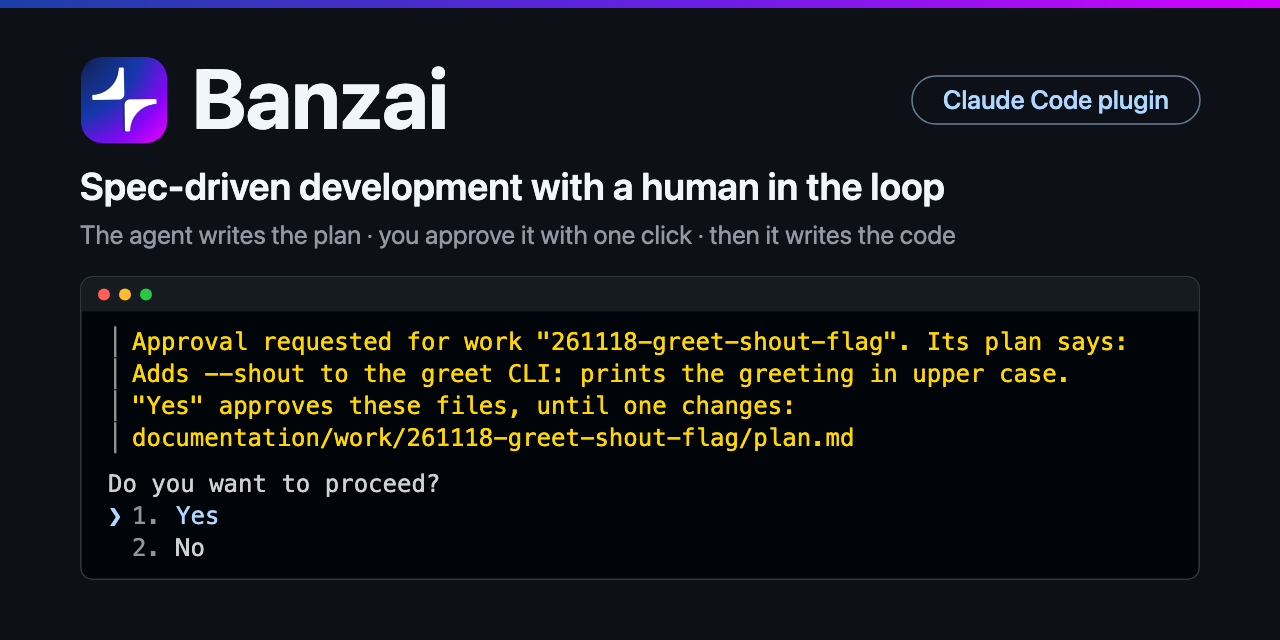
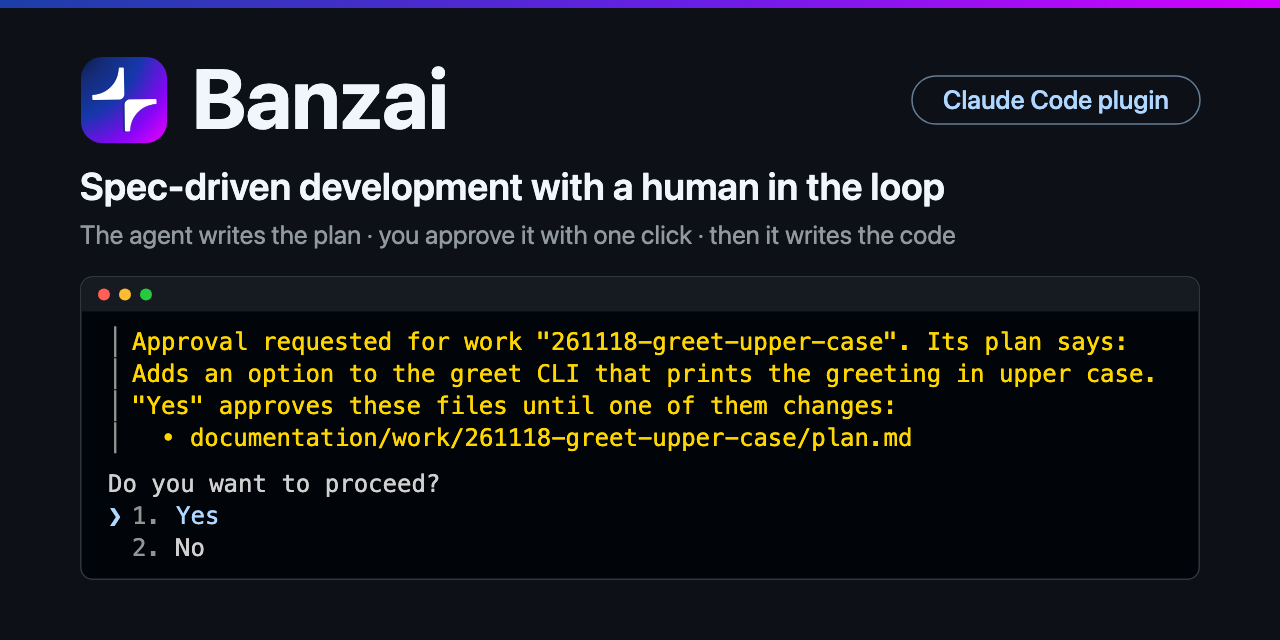
List approved files one per line in dialogs, document user-scope install

Changed region(s): [[0.0938, 0.5, 0.8125, 0.7188], [0.8438, 0.5625, 0.9062, 0.5938]]

diff --git a/README.md b/README.md
@@ -48,15 +48,28 @@ been checked.
 
 ## Install
 
-Add the marketplace, then install the plugin for your project:
+Add the marketplace:
 
 ```bash
 claude plugin marketplace add Parabolic-Technologies/banzai-claude-plugin
 ```
 
+Then install the plugin either for one project, from that project's
+directory:
+
 ```bash
 claude plugin install banzai@parabolic-plugins --scope project
 ```
+
+or for all your projects:
+
+```bash
+claude plugin install banzai@parabolic-plugins --scope user
+```
+
+With a user install the commands are available in every project, but the
+hook acts only in a project that has `documentation/work/`, which `setup`
+creates; everywhere else it stays silent.
 
 Then start Claude Code in the project and type:
 
@@ -75,7 +88,7 @@ Then start Claude Code in the project and type:
 Now give it a first piece of work in your own words, for example:
 
 ```text
-/banzai:feature add a --shout flag to the greet CLI
+/banzai:feature let the greet CLI print the greeting in upper case
 ```
 
 The model writes a plan and shows the approval dialog. After your "Yes" it
@@ -86,7 +99,8 @@ writes the code and the tests.
 Commit the files `setup` wrote so that your team shares them. The settings
 make the marketplace known to a teammate's Claude Code but install nothing.
 Each teammate opens the project in Claude Code once and trusts the folder,
-which fetches the marketplace, and then runs the install command above.
+which fetches the marketplace, and then runs one of the install commands
+above.
 
 ## Commands
 
@@ -104,7 +118,7 @@ Always type the full name. A bare `/review` is a different command.
 
 A *work* is one change with its own directory,
 `documentation/work/<work>/`. Its name is the date and the subject, such as
-`261118-greet-shout-flag`, and that name is what `[work]` stands for.
+`261118-greet-upper-case`, and that name is what `[work]` stands for.
 
 ## How planned work goes
 
@@ -132,7 +146,7 @@ When the work is done, your project holds:
 documentation/
 ├── decisions/                decision records
 └── work/
-    └── 261118-greet-shout-flag/
+    └── 261118-greet-upper-case/
         ├── requirements.md   what must be true when it is done
         ├── plan.md           how it will be built
         ├── report.md         what was built and how it was checked
@@ -202,7 +216,8 @@ claude plugin disable banzai@parabolic-plugins
 Approval records are kept in `.banzai/approvals/` in the project, outside
 Git. Losing them costs one new click per work. Uninstalling the plugin
 deletes the hook's data, and approvals made before then no longer count. To
-uninstall and keep them:
+uninstall and keep them, give the scope you installed with, `project` or
+`user`:
 
 ```bash
 claude plugin uninstall banzai@parabolic-plugins --scope project --keep-data

diff --git a/DECISIONS.md b/DECISIONS.md
@@ -184,9 +184,10 @@ a plan without such a section.
 Reason: a summary written in chat before the dialog appeared on Haiku only.
 Sonnet and Opus kept it in their reasoning through three wordings of the
 skill, so the developer approved file names. The quoted lines are part of a
-hashed file: changing them ends the approval. The host's dialog shows about
-ten rows of a hook's text and folds the rest, and at 80 columns a row holds
-72 characters; five such lines, the first row and three file names fit.
+hashed file: changing them ends the approval. The host's dialog shows up to
+twelve rows of a hook's text, its own first row included, fewer in a short
+terminal, and folds the rest. At 80 columns a row holds 72 characters, so
+five such lines, the hook's other three rows and three file names fit.
 Not checked: the desktop app and the IDE extensions.
 Rejected: a stop before the dialog for a summary in chat, which makes two
 steps of one click; leaving the developer to open `plan.md` first.

diff --git a/CHANGELOG.md b/CHANGELOG.md
@@ -4,6 +4,13 @@ All notable changes to the Banzai plugin are listed here. Versions follow
 [Semantic Versioning](https://semver.org/). A change to a command name, to
 the hook's decisions or to the document layout is a breaking change.
 
+## Unreleased
+
+### Changed
+
+- The approval dialog lists the files that "Yes" approves one per line, and
+  both dialogs mark each file with a bullet.
+
 ## 1.0.1 - 2026-11-18
 
 ### Changed
